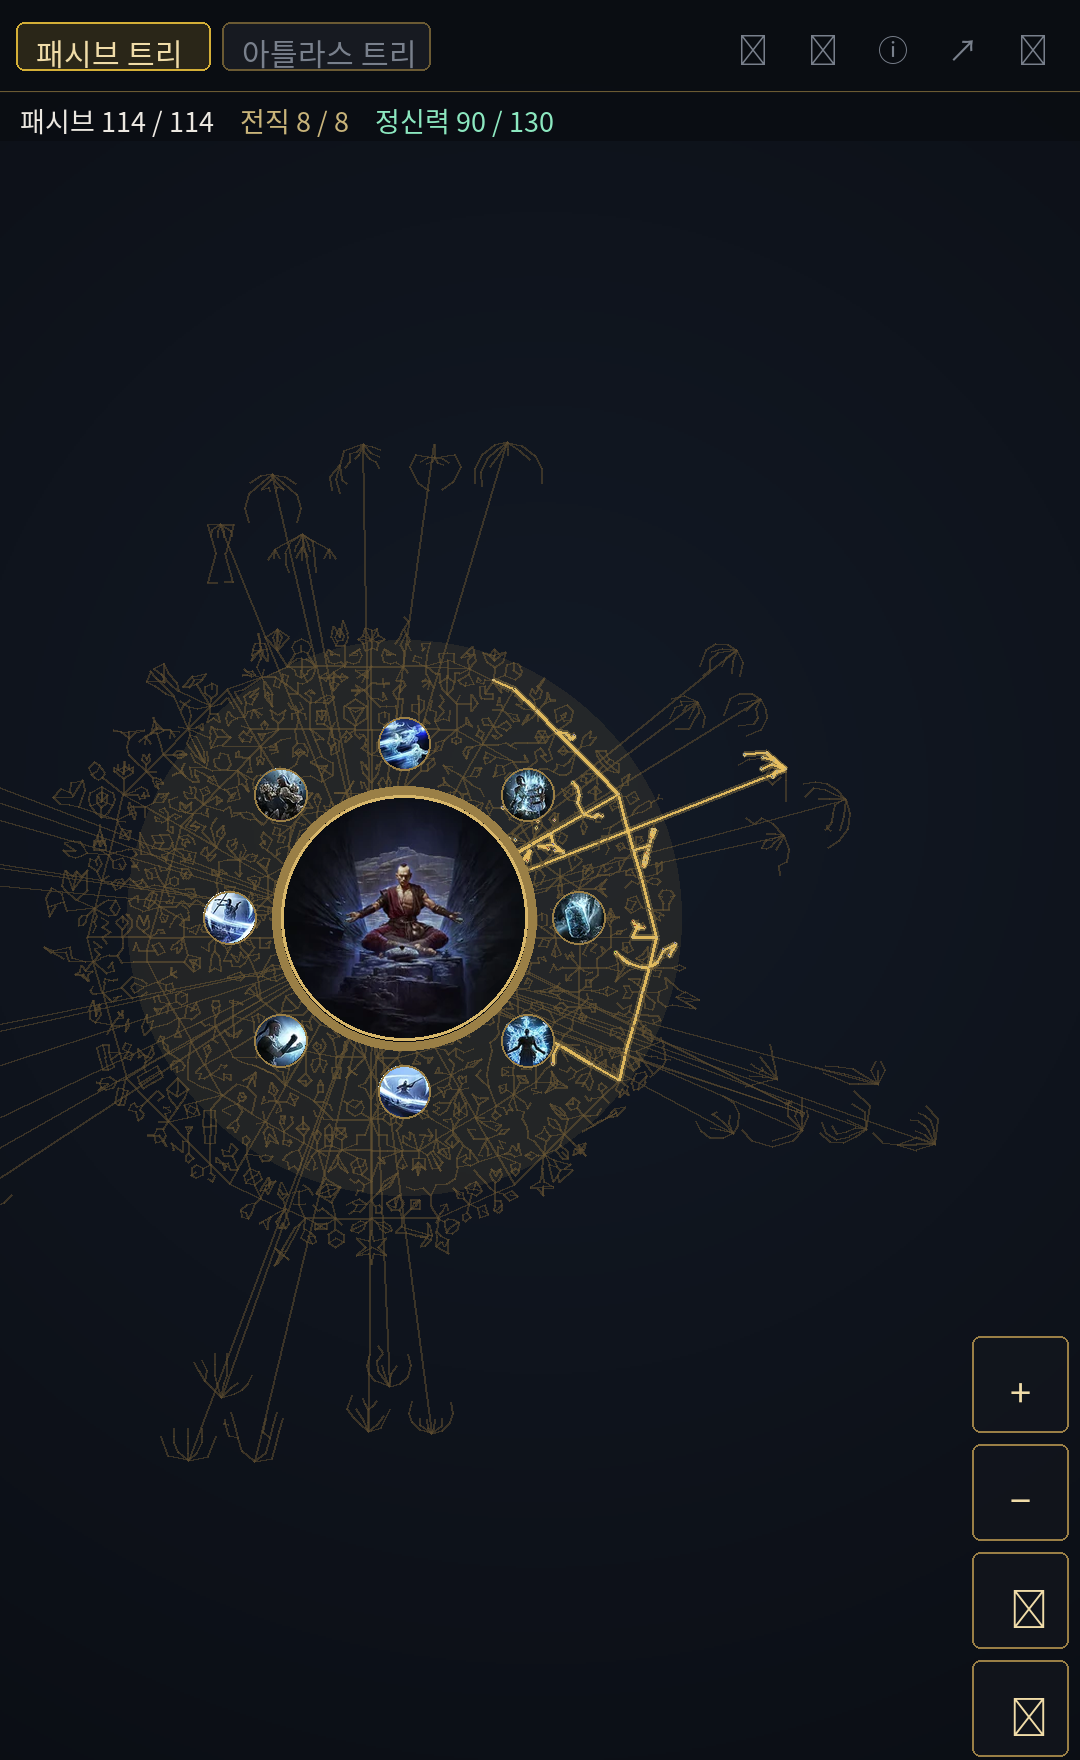
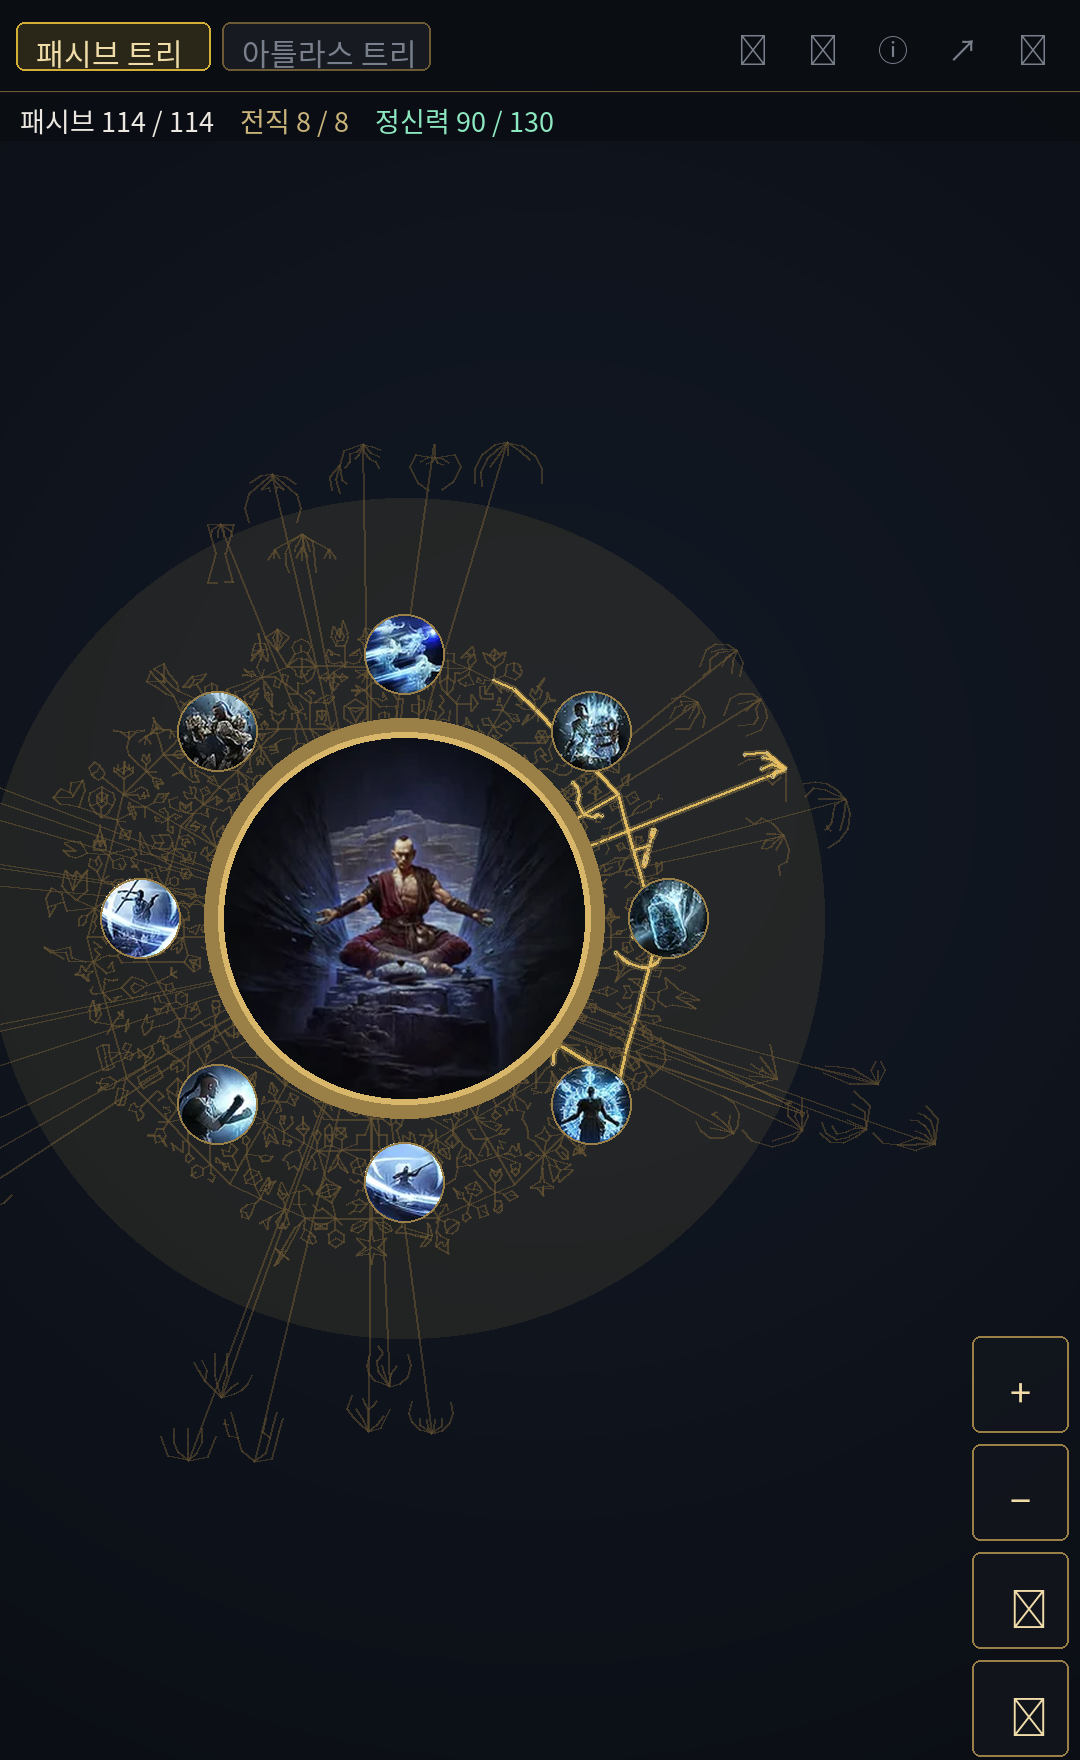
직업 메달 크기와 퍼지는 빛을 화면에 맞게 다듬음

Changed region(s): [[0.0917, 0.3438, 0.6722, 0.7188]]

diff --git a/app/src/main/java/com/sunuhwi/poe2dbkr/TreeCanvasView.kt b/app/src/main/java/com/sunuhwi/poe2dbkr/TreeCanvasView.kt
@@ -709,13 +709,13 @@ class TreeCanvasView @JvmOverloads constructor(
         if (x < left - 4000 || x > right + 4000 || y < top - 4000 || y > bottom + 4000) return
         val sx = viewport.screenX(x)
         val sy = viewport.screenY(y)
-        val radius = (900f * s).coerceIn(34f * density, 78f * density)
+        val radius = (900f * s).coerceIn(42f * density, 96f * density)
 
         // 뒤로 퍼지는 따뜻한 빛
         glowPaint.color = 0x22E8C060
-        canvas.drawCircle(sx, sy, radius * 2.1f, glowPaint)
-        glowPaint.color = 0x1AC69A4A
-        canvas.drawCircle(sx, sy, radius * 2.9f, glowPaint)
+        canvas.drawCircle(sx, sy, radius * 1.7f, glowPaint)
+        glowPaint.color = 0x18C69A4A
+        canvas.drawCircle(sx, sy, radius * 2.3f, glowPaint)
 
         // 일러스트를 원 안에 넣는다
         val art = classArtRect

diff --git a/scripts/preview_tree.py b/scripts/preview_tree.py
@@ -185,7 +185,7 @@ def draw_tree(meta, icons, class_art, allocated_ids, focus, class_start, ascend_
     # 직업 메달 + 전직 링
     if class_start in by_id:
         mx, my = sx(by_id[class_start]["x"]), sy(by_id[class_start]["y"])
-        radius = 132.0
+        radius = 200.0
         draw.ellipse((mx - radius * 2.1, my - radius * 2.1, mx + radius * 2.1, my + radius * 2.1),
                      fill=(232, 192, 96, 22))
         disc = Image.new("RGBA", (int(radius * 2), int(radius * 2)), (0, 0, 0, 0))
